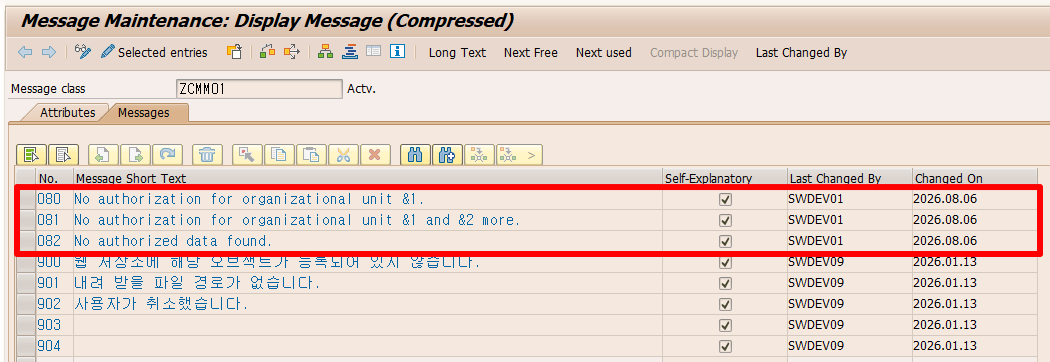
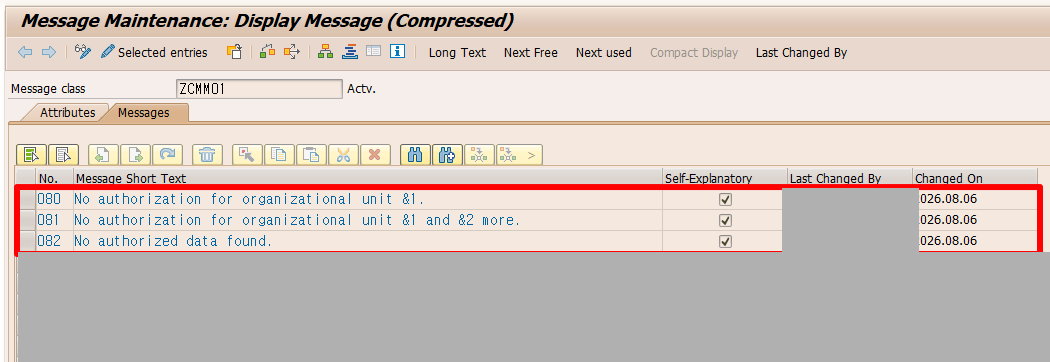
Redact system, account and org identifiers
시스템 ID·클라이언트·호스트명, 계정 ID, 회사명, 실제 조직 값을 문서와
소스, 화면 캡처에서 제거. 조직 값은 예시 값으로 대체.

diff --git a/auth-check/src/README.md b/auth-check/src/README.md
@@ -1,7 +1,7 @@
 # 소스코드
 
-[CBO 프로그램 권한체크 구현 가이드](../)에서 사용한 오브젝트의 실제 소스다.
-SED 시스템의 활성 버전을 그대로 추출했다(2026-08-18 기준).
+[CBO 프로그램 권한체크 구현 가이드](../)에서 사용한 오브젝트의 소스다.
+관리영역, 코스트센터 같은 조직 값은 예시 값으로 바꾸었다.
 
 ## 오브젝트
 
@@ -47,16 +47,7 @@ SED 시스템의 활성 버전을 그대로 추출했다(2026-08-18 기준).
 | 057 | (기존 재사용) 필수 입력 | | 데모5 화면 검증 |
 | 033 | (기존 재사용) 조회 결과 없음 | | 데모6 조회 결과 없음 |
 
-057·033은 프로젝트에 이미 있는 메시지를 재사용한 것이므로, 다른 시스템에서는
-해당 시스템의 기존 메시지 번호로 바꾼다.
+057·033은 기존 메시지를 재사용한 것이므로, 각자 시스템의 메시지 번호로 바꾼다.
 
 권한 오브젝트 `F_BKPF_BUK`, `M_MATE_WRK`, `K_CSKS`는 SAP 표준이다. 별도 생성이
 필요 없고 PFCG Role에 값만 부여하면 된다.
-
-## 참고
-
-클래스에는 설계 검토 단계에서 만들었다가 폐기한 `GET_DEFAULT_OBJECT`가 남아
-있다(호출부는 주석 처리). 필드명으로 권한 오브젝트를 자동 결정하려던 방식이며,
-같은 필드라도 업무 문맥에 따라 오브젝트가 달라져 폐기했다. 실제 시스템 상태를
-그대로 옮긴 것이므로 그대로 두었고, 신규 구축 시에는 생략해도 된다.
-데모5의 `build_check`에도 같은 이유로 주석 처리된 구버전 블록이 있다.
